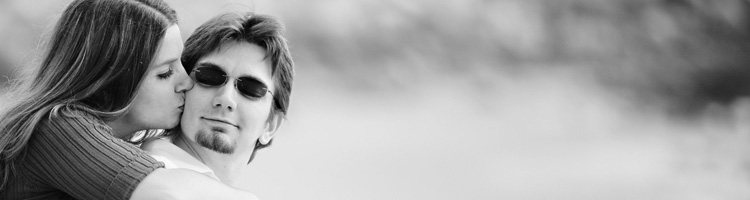
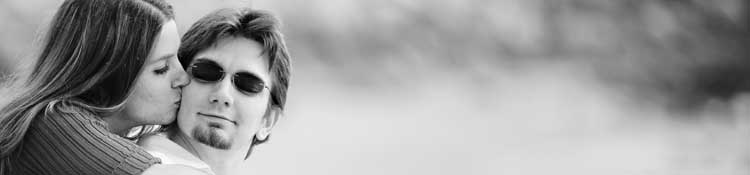
tighten up header image

diff --git a/public/wedding/style/main.css b/public/wedding/style/main.css
@@ -20,13 +20,13 @@ html > body {
 #header {
 	background: transparent url('../images/header-kiss-bw.jpg') 0 0 no-repeat ;
 	width: 750px;
-	height: 200px;
+	height: 175px;
 	margin: 0 auto;
 }
 #header a {
 	display: block;
 	width: 750px;
-	height: 200px;
+	height: 175px;
 	text-decoration: none;
 }
 h1 {
@@ -35,7 +35,7 @@ h1 {
 	text-indent: -999999px;
 	width: 186px;
 	height: 76px;
-	top: 50px;
+	top: 40px;
 	left: 450px;
 }
 

diff --git a/public/wedding/photos.php b/public/wedding/photos.php
@@ -30,7 +30,7 @@
 		<li><a href="images/photos/015.jpg"><img src="images/photos/thumbnails/015.jpg" /></a></li>
 	</ul>
 
-	<h3>Wedding Photos</h3>
+	<h3>Wedding</h3>
 
 	<p>While we will have a photographer at the wedding, we'd love for family 
 and friends to take pictures as well.  If you don't mind, please upload any 
